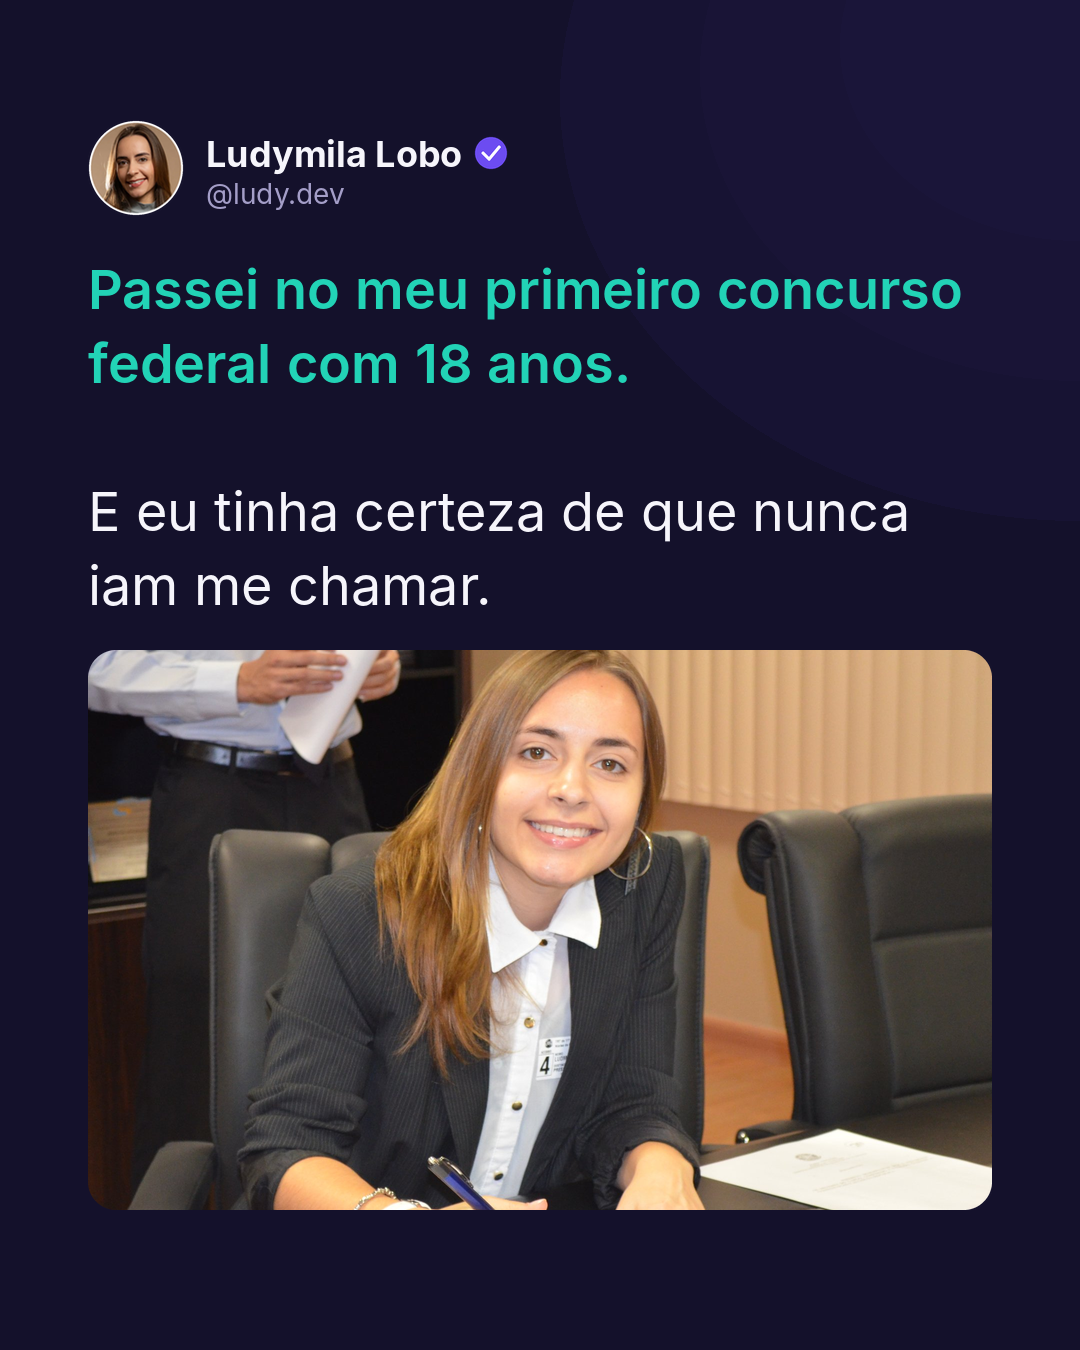
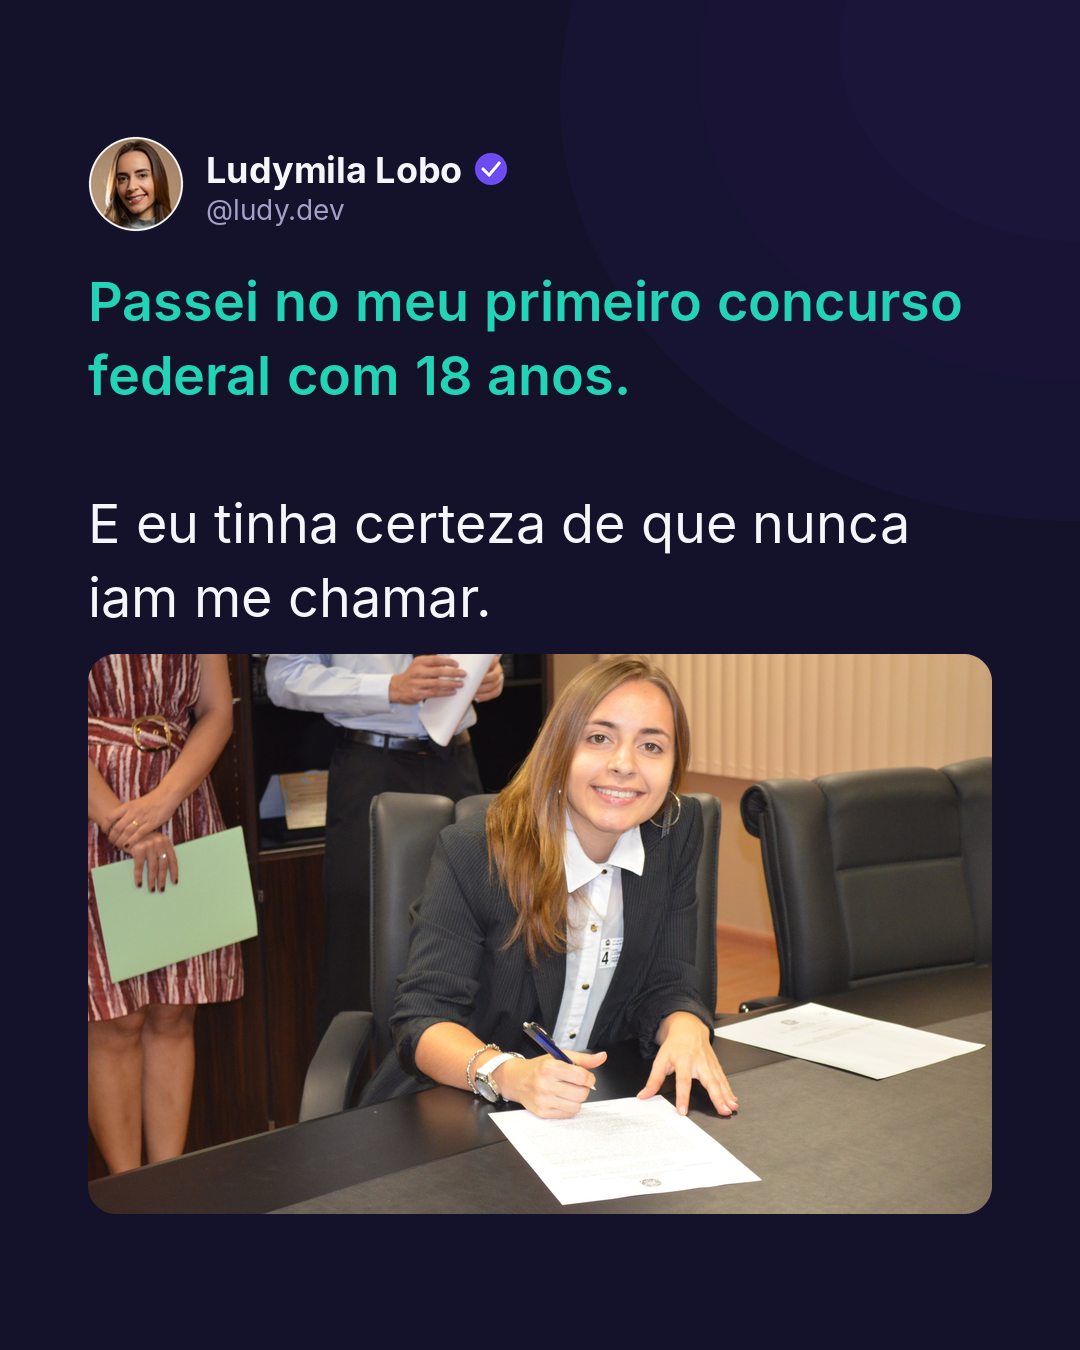
Post 21/10 18h: história com fotos do intercâmbio
Claude-Session: https://claude.ai/code/session_016ydKq3ZBWwCP8BaeCJ9gie

Changed region(s): [[0.0611, 0.3733, 0.9167, 0.9022], [0.0611, 0.0933, 0.8861, 0.3111], [0.8861, 0.4667, 0.9167, 0.4978]]

diff --git a/_ferramentas/historia_2110.py b/_ferramentas/historia_2110.py
@@ -1,5 +1,7 @@
-from PIL import Image, ImageDraw, ImageFont
-import re, sys
+"""Carrossel 21/10 18h: história do primeiro concurso (versão com fotos dos EUA).
+Uso: python3 render2.py  (rodar na pasta que contém avatar.png e fotos/)"""
+from PIL import Image, ImageDraw, ImageFont, ImageFilter
+import re
 
 W, H = 1080, 1350
 MX = 88
@@ -8,15 +10,15 @@ TXT = (246, 245, 251)    # #F6F5FB
 MUTED = (164, 158, 200)
 VIOLET = (108, 76, 241)  # #6C4CF1
 MINT = (34, 211, 182)    # #22D3B6
-
 FONT_DIR = '/usr/share/fonts/opentype/inter/'
 def F(w, s): return ImageFont.truetype(FONT_DIR + f'Inter-{w}.otf', s)
 
-PHOTO = 'fotos/ludy-posse-primeiro-concurso.jpg'
+PAD_V = 84   # margem mínima topo/base
+GAP_HEAD = 36
+GAP_PHOTO = 36
 
 def circ_avatar(size, ss=4):
-    im = Image.open('avatar.png').convert('RGB')
-    im = im.resize((size*ss, size*ss), Image.LANCZOS).convert('RGBA')
+    im = Image.open('avatar.png').convert('RGB').resize((size*ss, size*ss), Image.LANCZOS).convert('RGBA')
     m = Image.new('L', (size*ss, size*ss), 0)
     ImageDraw.Draw(m).ellipse((ss, ss, size*ss-1-ss, size*ss-1-ss), fill=255)
     im.putalpha(m)
@@ -35,11 +37,9 @@ def badge(img, x, y, size=34, ss=4):
     img.paste(b, (int(x), int(y)), b)
 
 def tokens(text):
-    """Parse **mint** markup into (word, highlighted) tokens, keeping line breaks."""
     out = []
     for line in text.split('\n'):
-        parts = re.split(r'(\*\*.+?\*\*)', line)
-        for p in parts:
+        for p in re.split(r'(\*\*.+?\*\*)', line):
             hl = p.startswith('**') and p.endswith('**')
             p = p[2:-2] if hl else p
             for w in p.split(' '):
@@ -63,10 +63,39 @@ def layout(text, size, maxw):
     lines.append(cur)
     return lines, space
 
-def slide(text, out, size=48, photo=None, kicker=None):
+def cover_crop(path, w, h, fx=0.5, fy=0.5, sharpen=False):
+    im = Image.open(path).convert('RGB')
+    sw, sh = im.size
+    scale = max(w/sw, h/sh)
+    nw, nh = round(sw*scale), round(sh*scale)
+    im = im.resize((nw, nh), Image.LANCZOS)
+    if sharpen:
+        im = im.filter(ImageFilter.UnsharpMask(radius=2, percent=60, threshold=2))
+    left = min(max(0, int(nw*fx - w/2)), nw - w)
+    top = min(max(0, int(nh*fy - h/2)), nh - h)
+    return im.crop((left, top, left+w, top+h))
+
+def rounded(im, r=28, ss=4):
+    w, h = im.size
+    m = Image.new('L', (w*ss, h*ss), 0)
+    ImageDraw.Draw(m).rounded_rectangle((0, 0, w*ss-1, h*ss-1), radius=r*ss, fill=255)
+    im = im.convert('RGBA'); im.putalpha(m.resize((w, h), Image.LANCZOS))
+    return im
+
+def photo_block(photos, w, h):
+    """photos: lista de (path, fx, fy, sharpen). 1 foto = largura cheia; 2 = lado a lado."""
+    if len(photos) == 1:
+        p, fx, fy, sh = photos[0]
+        return [(rounded(cover_crop(p, w, h, fx, fy, sh)), 0)]
+    gap = 16
+    cw = (w - gap)//2
+    out = []
+    for i, (p, fx, fy, sh) in enumerate(photos):
+        out.append((rounded(cover_crop(p, cw, h, fx, fy, sh)), i*(cw+gap)))
+    return out
+
+def slide(text, out, size=48, photos=None, photo_max=560, fit=False):
     img = Image.new('RGB', (W, H), BG)
-    d = ImageDraw.Draw(img)
-    # subtle glow
     glow = Image.new('RGBA', (W, H), (0,0,0,0))
     gd = ImageDraw.Draw(glow)
     for r, a in [(520, 10), (380, 14), (240, 18)]:
@@ -77,28 +106,14 @@ def slide(text, out, size=48, photo=None, kicker=None):
     maxw = W - 2*MX
     lines, space = layout(text, size, maxw)
     lh = int(size*1.38)
-    text_h = len(lines)*lh
+    text_h = len(lines)*lh - (lh - size)  # sem sobra da última linha
     av = 96
-    head_h = av
-    ph = None
-    if photo:
-        ph = Image.open(PHOTO).convert('RGB')
-        pw = maxw
-        # crop to 4:3-ish centered on her
-        c = ph.crop((560, 0, 2368, 1356))
-        hh = int(pw * c.height / c.width)
-        if hh > photo:
-            hh = photo
-        c = c.resize((pw, int(pw*c.height/c.width)), Image.LANCZOS)
-        top = max(0, int((c.height-hh)*0.62))
-        c = c.crop((0, top, pw, top+hh))
-        ss = 4
-        m = Image.new('L', (pw*ss, hh*ss), 0)
-        ImageDraw.Draw(m).rounded_rectangle((0,0,pw*ss-1,hh*ss-1), radius=28*ss, fill=255)
-        c.putalpha(m.resize((pw, hh), Image.LANCZOS))
-        ph = c
-    kick_h = 0
-    total = head_h + 40 + text_h + ((44 + ph.height) if ph else 0)
+    ph_h = 0
+    if photos:
+        avail = H - 2*PAD_V - av - GAP_HEAD - text_h - GAP_PHOTO
+        ph_h = max(260, min(photo_max, avail))
+        assert avail >= 260, f'{out}: texto longo demais para a foto ({avail}px livres)'
+    total = av + GAP_HEAD + text_h + ((GAP_PHOTO + ph_h) if photos else 0)
     y = (H - total)//2
 
     a = circ_avatar(av)
@@ -109,7 +124,7 @@ def slide(text, out, size=48, photo=None, kicker=None):
     badge(img, nx + fn.getlength('Ludymila Lobo') + 12, y+16)
     d.text((nx, y+56), '@ludy.dev', font=fh, fill=MUTED)
 
-    ty = y + head_h + 40
+    ty = y + av + GAP_HEAD
     for ln in lines:
         x = MX
         for i, (w, hl, f) in enumerate(ln):
@@ -117,24 +132,52 @@ def slide(text, out, size=48, photo=None, kicker=None):
             d.text((x, ty), w, font=f, fill=MINT if hl else TXT)
             x += f.getlength(w)
         ty += lh
-    if ph:
-        img.paste(ph, (MX, ty + 44 - (lh - size)), ph)
+    if photos:
+        py = y + av + GAP_HEAD + text_h + GAP_PHOTO
+        for ph, dx in photo_block(photos, maxw, ph_h):
+            img.paste(ph, (MX + dx, py), ph)
     img.save(out, 'PNG', optimize=True)
 
+P = 'fotos/'
 SLIDES = [
- ("**Passei no meu primeiro concurso federal com 18 anos.**\n\nE eu tinha certeza de que nunca iam me chamar.", 54, 560),
- ("Eu ainda estava na graduação quando fiz a prova.\n\nO edital tinha **só 1 vaga.**\n\nFiquei em **10º lugar.**\n\nFiz as contas e pensei: esquece, nunca vão me chamar.", 50, None),
- ("Mas eu não fiquei parada esperando.\n\nContinuei estudando.\n\nE esses estudos me levaram a passar em uma seletiva pra cursar parte da graduação nos Estados Unidos, com **bolsa de 100%.**", 50, None),
- ("Passei um ano estudando **Ciência da Computação em Massachusetts.**\n\nAquele concurso em que eu fiquei em 10º?\n\nNem passava mais pela minha cabeça.", 50, None),
- ("Até que, ainda nos EUA, o telefone tocou.\n\nEra o aviso da **minha nomeação.**\n\nNo mês seguinte eu já precisava voltar pro Brasil. Era justamente o fim do intercâmbio.", 50, None),
- ("Um detalhe que muita gente não sabe:\n\nconcurso costuma valer **2 anos, prorrogáveis por mais 2.**\n\nFui nomeada no **4º e último ano** de validade. Junto com o último período da minha graduação.", 50, None),
- ("As coisas acontecem no tempo de Deus.\n\nMuitas vezes a gente não entende um resultado ou uma reprovação.\n\nO resultado, ninguém controla. A gente controla o próprio comportamento: **desistir ou continuar estudando.**", 48, None),
- ("Nessa época eu carregava **10 reprovações.**\n\nNenhuma delas me parou.\n\nE nem a aprovação me fez parar. Eu queria mais. Veio a aprovação pra **analista de TI,** mas essa é história pra outro post.", 50, None),
- ("Então não se limite.\n\nNem pela **idade,** pra mais ou pra menos.\n\nNem pelo **número de vagas.**\n\nNem pela **sua colocação.**\n\nVocê não controla quando vão te chamar. Controla se vai estar pronto(a) quando chamarem.", 48, None),
- ("Se essa história te deu um gás, salva pra reler no dia em que bater a vontade de desistir.\n\nE manda pra aquele amigo que acha que \"não tem chance\".\n\n**Comenta GPS** que eu te mando o link do meu grupo no WhatsApp.", 50, None),
+ # 1 capa
+ ("**Passei no meu primeiro concurso federal com 18 anos.**\n\nE eu tinha certeza de que nunca iam me chamar.",
+  54, [(P+'posse.jpg', 0.64, 0.6, False)], 560),
+ # 2
+ ("Eu ainda estava na graduação quando fiz a prova.\n\nO edital tinha **só 1 vaga.**\n\nFiquei em **10º lugar.**\n\nFiz as contas e pensei: esquece, nunca vão me chamar.",
+  50, None, 0),
+ # 3 bolsa
+ ("Mas eu não fiquei parada esperando.\n\nContinuei estudando. E esses estudos me levaram a passar em uma seletiva pra cursar parte da graduação nos EUA, com **bolsa de 100%.**",
+  46, [(P+'eua-campus.jpg', 0.5, 0.55, True)], 520),
+ # 4 Massachusetts
+ ("Passei um ano estudando **Ciência da Computação em Massachusetts.**\n\nE ainda fui destaque como **estudante do mês.**",
+  46, [(P+'eua-student-of-the-month.jpg', 0.5, 0.5, True)], 337),
+ # 5 ano de portas abertas
+ ("Foi um ano de muito código, eventos de tecnologia e portas abertas.\n\nAquele concurso em que eu fiquei em 10º? **Nem passava mais pela minha cabeça.**",
+  46, [(P+'eua-startup-weekend.jpg', 0.55, 0.42, False), (P+'eua-microsoft.jpg', 0.5, 0.5, False)], 520),
+ # 6 ligação
+ ("Até que, ainda nos EUA, o telefone tocou.\n\nEra o aviso da **minha nomeação.**\n\nNo mês seguinte eu já precisava voltar pro Brasil. Era justamente o fim do intercâmbio.",
+  46, [(P+'eua-brooklyn-comemorando.jpg', 0.47, 0.45, False)], 520),
+ # 7 validade
+ ("Um detalhe que muita gente não sabe:\n\nconcurso costuma valer **2 anos, prorrogáveis por mais 2.**\n\nFui nomeada no **4º e último ano** de validade. Junto com o último período da minha graduação.",
+  46, [(P+'eua-ny-noite.jpg', 0.52, 0.5, False)], 460),
+ # 8 tempo de Deus
+ ("As coisas acontecem no tempo de Deus.\n\nO resultado, ninguém controla. A gente controla o próprio comportamento: **desistir ou continuar estudando.**",
+  46, [(P+'eua-brooklyn-dia.jpg', 0.58, 0.45, False)], 520),
+ # 9 reprovações / queria mais
+ ("Nessa época eu carregava **10 reprovações.** Nenhuma delas me parou.\n\nE nem a aprovação me fez parar. Eu queria mais. Veio a aprovação pra **analista de TI,** mas essa é história pra outro post.",
+  46, [(P+'eua-google-android.jpg', 0.4, 0.6, False)], 480),
+ # 10 não se limite
+ ("Então não se limite.\n\nNem pela **idade,** pra mais ou pra menos. Nem pelo **número de vagas.** Nem pela **sua colocação.**\n\nQuem continua estudando chega mais longe do que imaginava.",
+  46, [(P+'eua-nasa.jpg', 0.5, 0.86, False)], 500),
+ # 11 CTA
+ ("Se essa história te deu um gás, salva pra reler no dia em que bater a vontade de desistir.\n\nE manda pra aquele amigo que acha que \"não tem chance\".\n\n**Comenta GPS** que eu te mando o link do meu grupo no WhatsApp.",
+  50, None, 0),
 ]
 
 if __name__ == '__main__':
-    for i, (t, s, p) in enumerate(SLIDES, 1):
-        slide(t, f'slide_{i:02d}.png', size=s, photo=p)
-    print('ok')
+    import glob, os
+    for f in glob.glob('slide_*.png'): os.remove(f)
+    for i, (t, s, ph, pm) in enumerate(SLIDES, 1):
+        slide(t, f'slide_{i:02d}.png', size=s, photos=ph, photo_max=pm)
+    print('ok', len(SLIDES))
